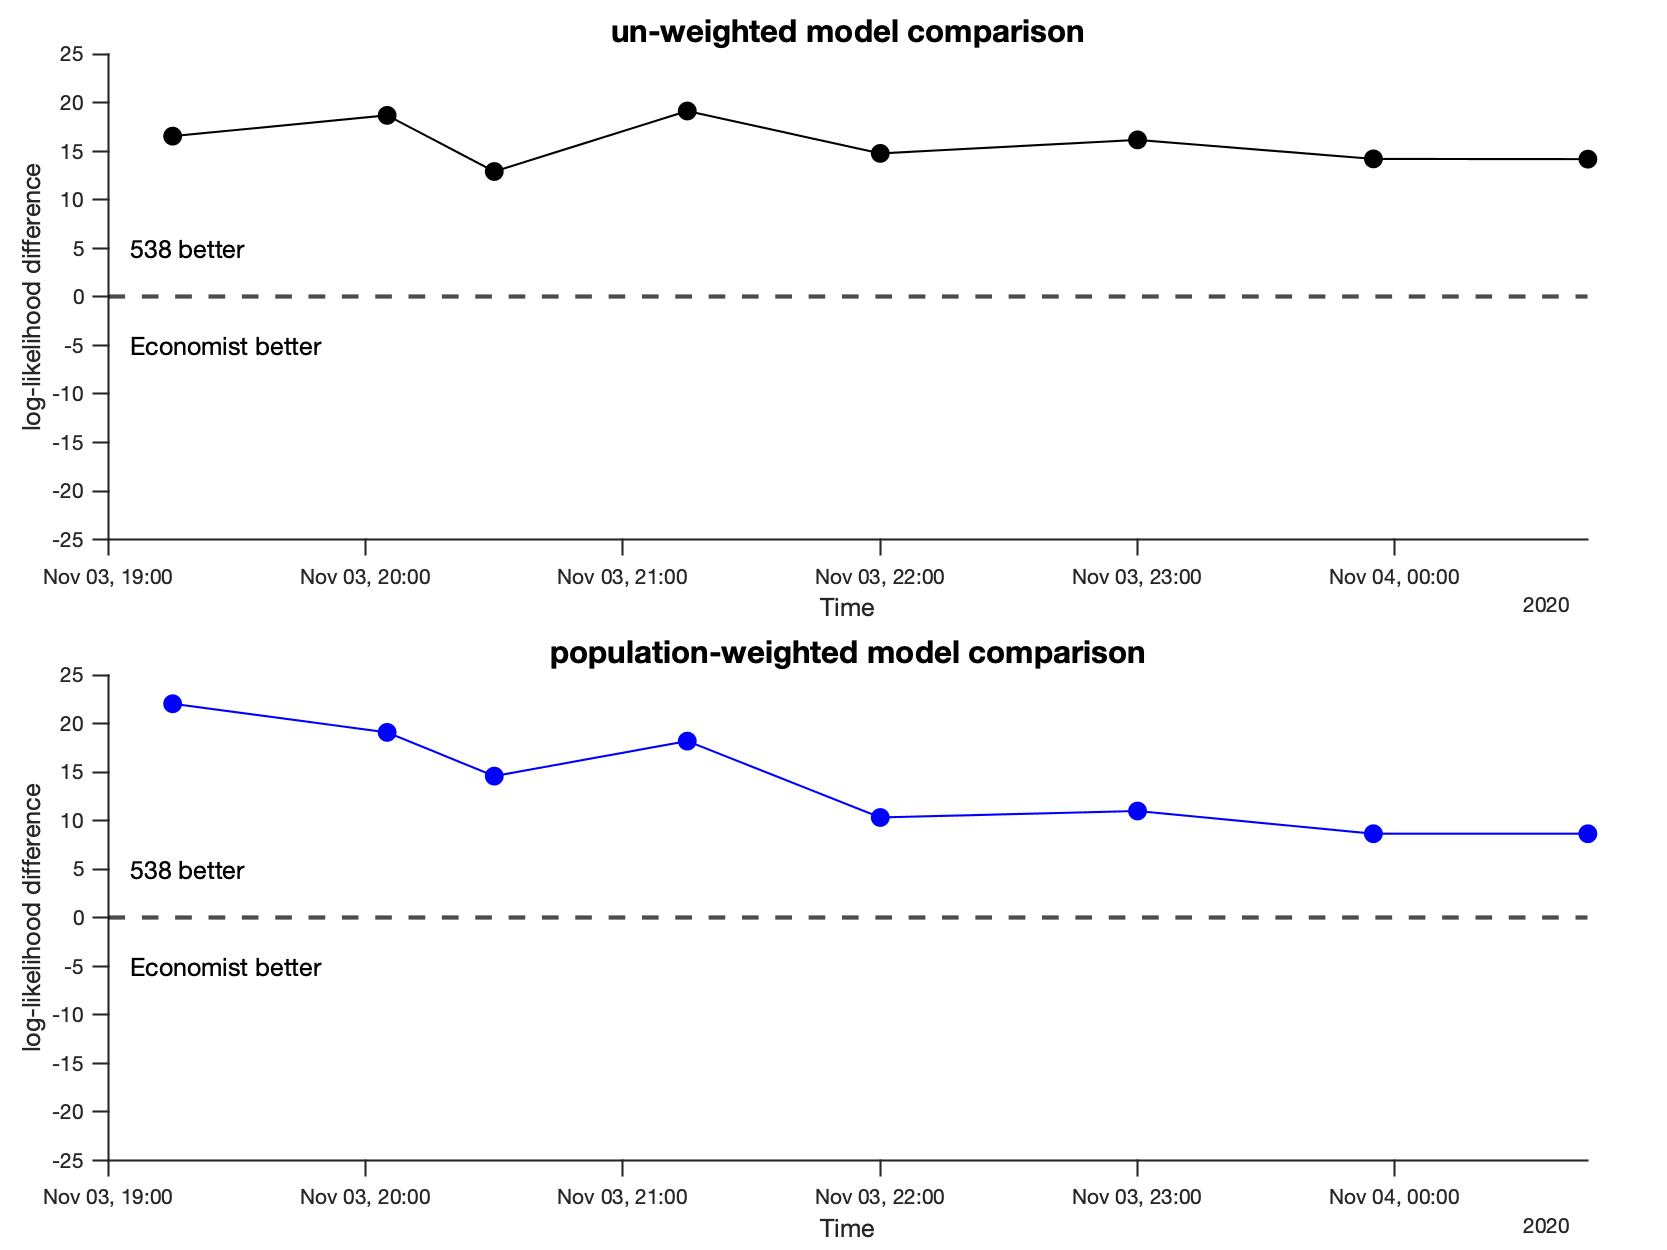
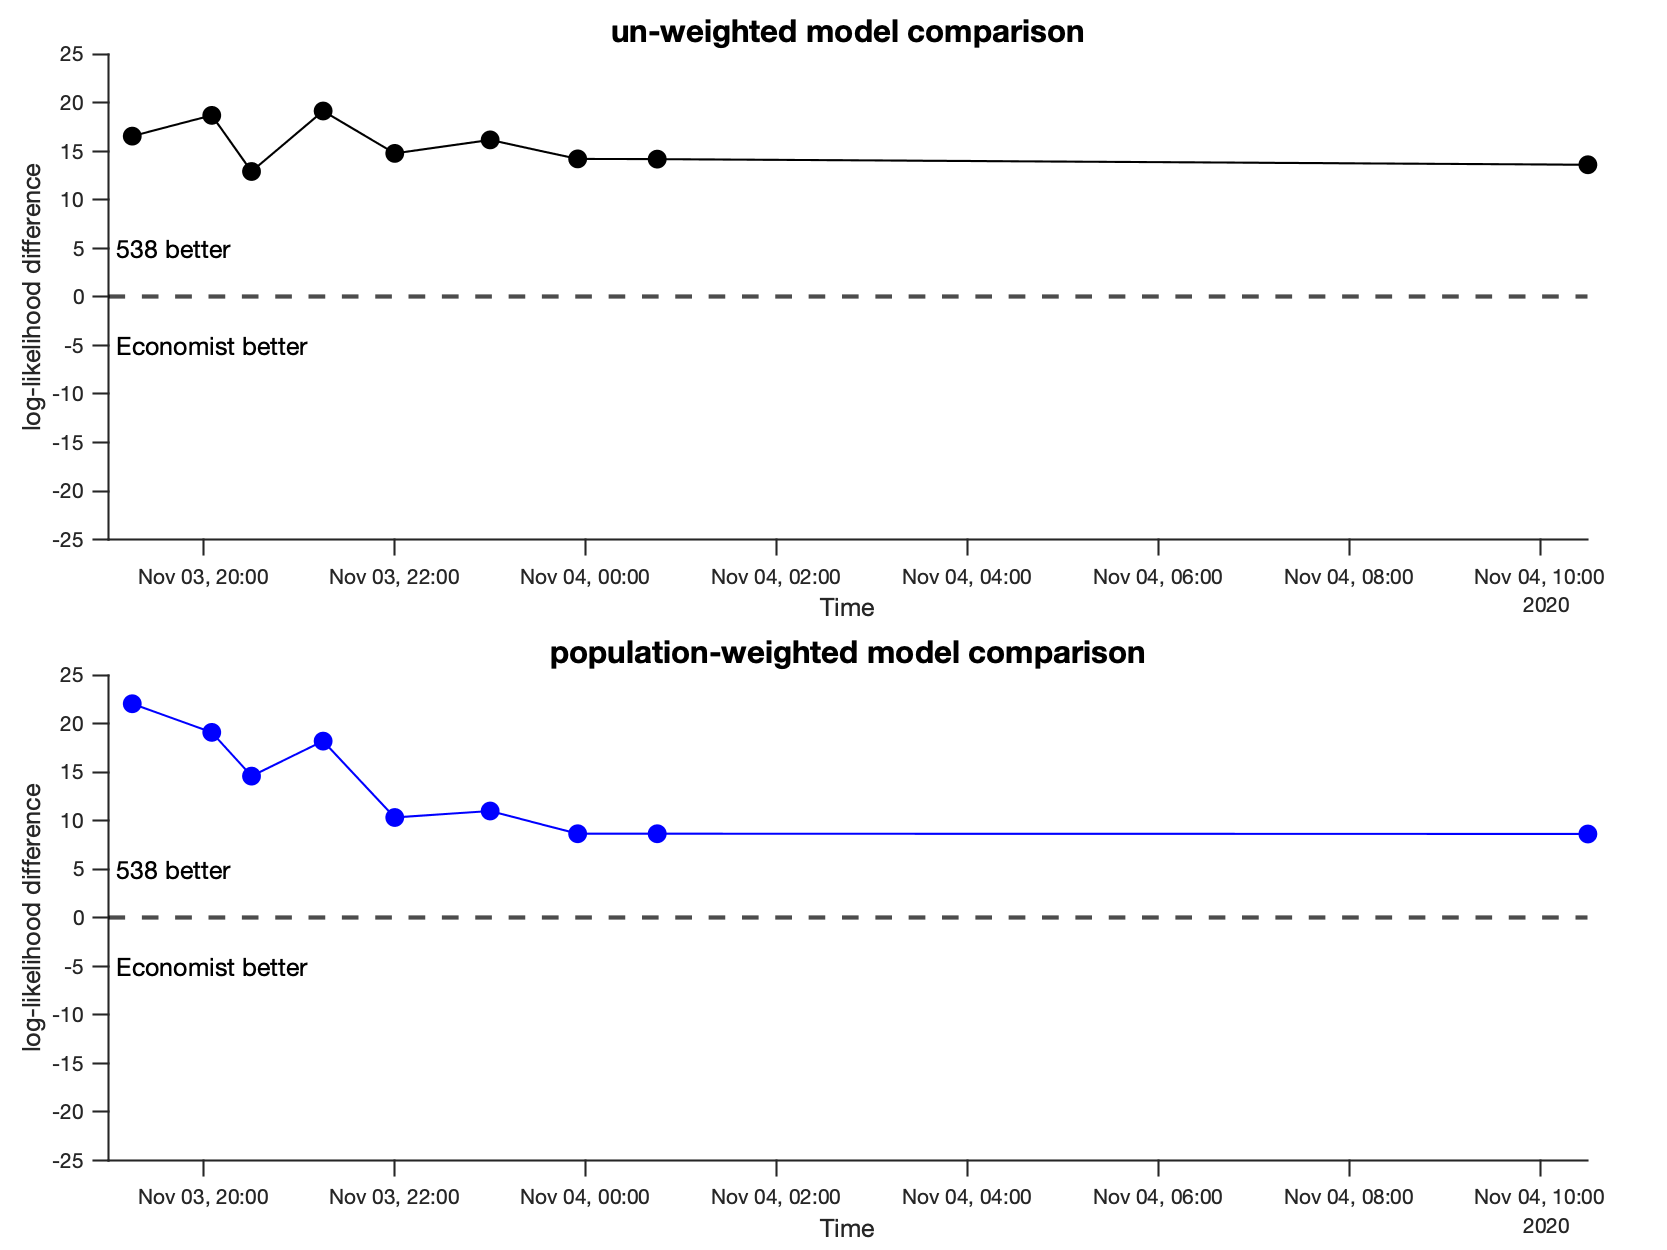
update

diff --git a/compare_models.m b/compare_models.m
@@ -46,11 +46,11 @@ b_Econ = min(std(d_Econ), iqr(d_Econ)/1.34).*(4/(52*nsims)).^(1/54);
 r = readmatrix('./data/live_results.csv', 'Range', 'B1:ZZ54');
 
 clear curTime
-for cc = 1:size(r,2)
+for cc = 1:sum(any(isfinite(r)))
     curTime(cc) = datetime([2020 r(1,cc) r(2,cc) r(3,cc) r(4,cc) 00]);
 end
 
-r = r(5:54,:);
+r = r(5:54,any(isfinite(r)));
 
 % univariate model
 clear lik_538 lik_Econ
@@ -127,11 +127,11 @@ saveas(f_ModelCompare, './figures/modelComparison_1.png')
 r = readmatrix('./data/live_results.csv', 'Range', 'B1:ZZ54');
 
 clear curTime
-for cc = 1:size(r,2)
+for cc = 1:sum(any(isfinite(r)))
     curTime(cc) = datetime([2020 r(1,cc) r(2,cc) r(3,cc) r(4,cc) 00]);
 end
 
-r = r(5:54,:);
+r = r(5:54,any(isfinite(r)));
 
 
 f_predMeanfield = figure('Renderer', 'painters', 'Position', [0 0 500, 1000]);
@@ -167,4 +167,51 @@ end
 
 
 saveas(f_predMeanfield, './figures/pred_meanfield.png') 
+
+
+
+
+
+%% estimate bias
+
+
+% load results
+r = readmatrix('./data/live_results.csv', 'Range', 'B1:ZZ54');
+
+clear curTime
+for cc = 1:sum(any(isfinite(r)))
+    curTime(cc) = datetime([2020 r(1,cc) r(2,cc) r(3,cc) r(4,cc) 00]);
+end
+
+r = r(5:54,any(isfinite(r)));
+
+
+
+f_predError = figure('Renderer', 'painters', 'Position', [0 0 400, 400]);
+tiledlayout('flow','TileSpacing', 'compact', 'Padding', 'compact');
+
+
+nexttile; hold on;
+
+histogram((r(:,end) - mean(tbl538.Variables)')*100,  'Normalization', 'pdf', 'DisplayStyle', 'stairs', 'EdgeColor', 'k', 'LineWidth', 2)
+histogram((r(:,end) - mean(tblEcon.Variables)')*100,'Normalization', 'pdf', 'DisplayStyle', 'stairs', 'EdgeColor', 'r', 'LineWidth', 2)
+xline(0, '--k', 'LineWidth', 1);
+
+
+text(-.5, .225, 'Trump', 'FontSize', 12, 'HorizontalAlignment', 'right')
+text(.5, .225, 'Biden', 'FontSize', 12, 'HorizontalAlignment', 'left')
+
+
+
+set(gca, 'TickDir', 'out', 'LineWidth', 1);
+title('state prediction error', 'FontSize', 15)
+
+xlabel('prediction error (%)', 'FontSize', 12)
+ylabel('density', 'FontSize', 12);
+yticks([])
+
+legend({'538', 'Economist'}, 'Location', 'northwest')
+
+
+saveas(f_predError, './figures/predError.png') 
 
